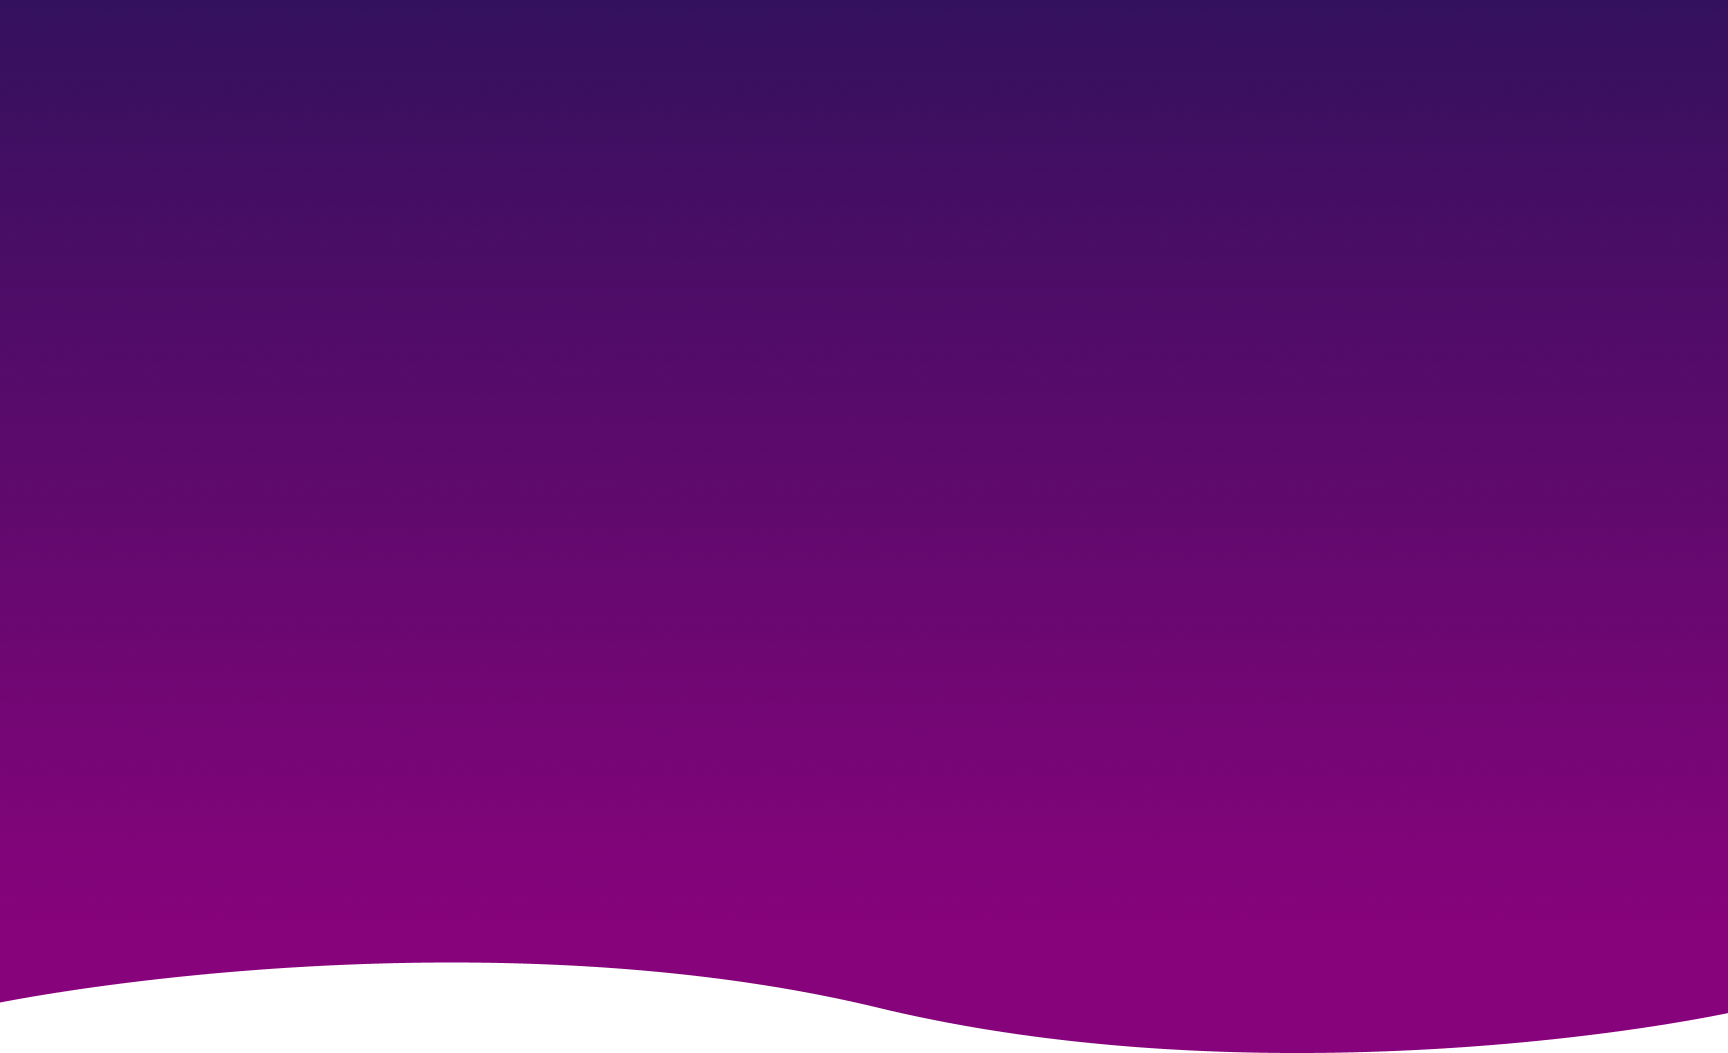
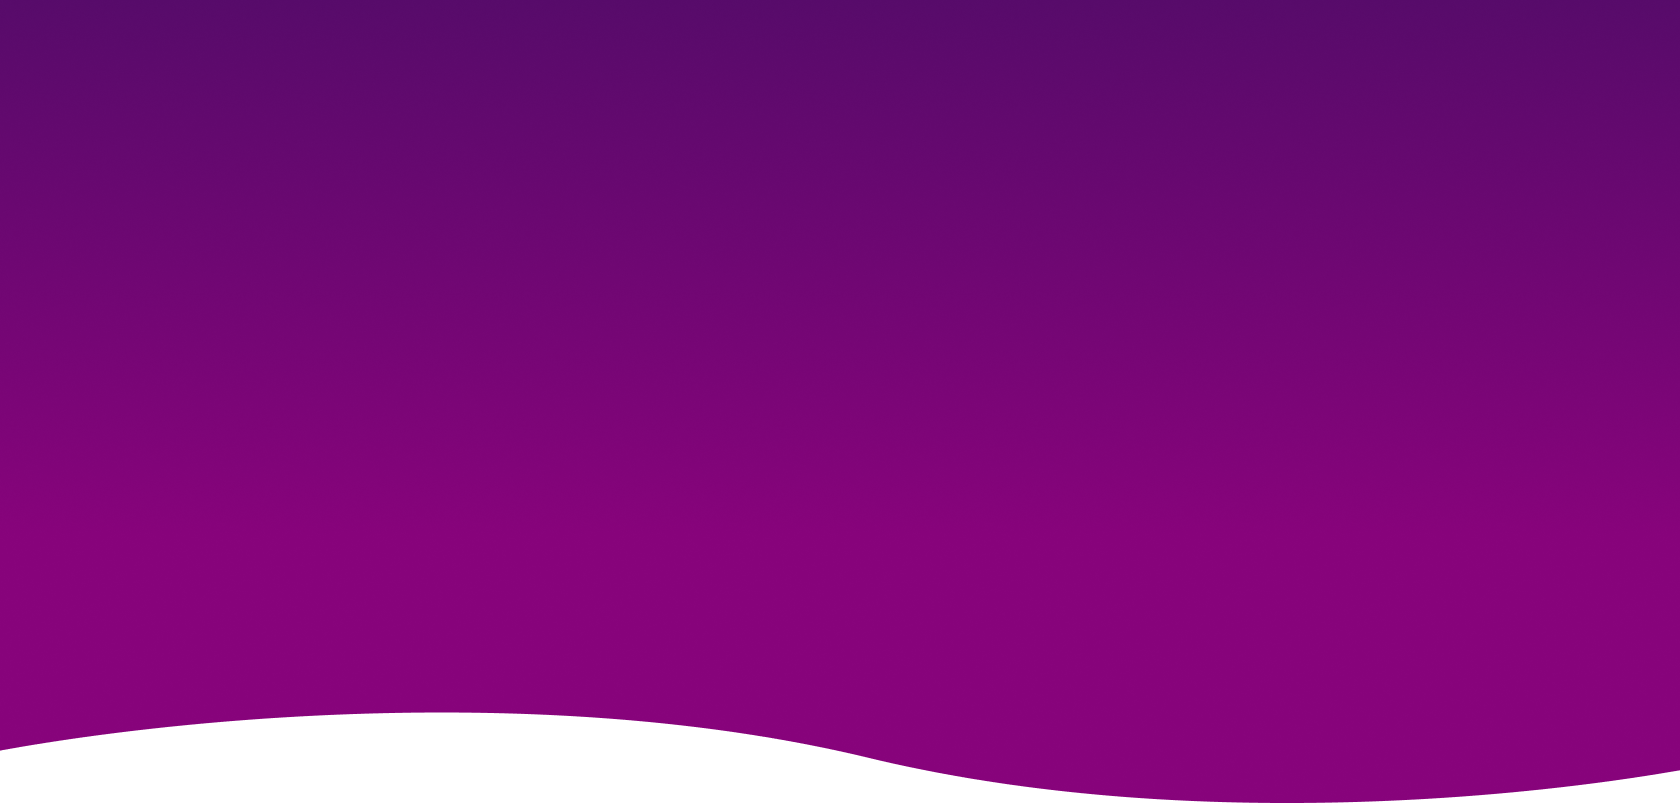
blog page edit

diff --git a/css/new_custom.css b/css/new_custom.css
@@ -1,10 +1,10 @@
 .blog_bnr .motivationg_bg_one > img{
-    height: 850px;
+    height: 725px;
 }
 .blog_bnr .motivation_bnr_wrap{
     margin-top: 0;
     position: absolute;
-    top: 120px;
+    top: 90px;
 }
 .blog_bnr .motivation_bnr_wrap p {
     padding-top: 30px;
@@ -117,17 +117,19 @@
     align-items: center;
     box-shadow: rgba(0, 0, 0, 0.16) 0px 36.9px 25.67px;
     background-color: #F5F5F5;
-    padding: 30px;
+    padding: 27px 30px;
     margin: 0 auto;
     border-radius: 16px;
+    max-width: 804px;
 }
 .social_post_list_wrap ul li:not(:last-child){
-    margin-right: 20px;
+    margin-right: 24px;
 }
 .social_post_list_wrap h5{
     color: #FF6900;
-    font-size: 32px;
-    margin-right: 60px;
+    font-size: 16px;
+    margin-right: 104px;
+    font-weight: 600;
 }
 .social_post_icon_wrap{
     position: absolute;
@@ -159,18 +161,18 @@
     max-width: 560px;
 }
 .blog_post_one figcaption{
-    font-size: 30px;
+    font-size: 13px;
     color: #FF6900;
     margin: 30px 0;
-    line-height: 40px;
+    line-height: 23px;
     font-style: italic;
     text-align: center;
 }
 .blog_post_two figcaption{
-    font-size: 30px;
+    font-size: 13px;
     color: #FF6900;
     margin: 30px 0;
-    line-height: 40px;
+    line-height: 23px;
     font-style: italic;
     text-align: center;
 }
@@ -184,15 +186,15 @@
     margin-top: 70px;
 }
 .post_btn_wrap_new a{
-    font-size: 30px;
+    font-size: 16px;
     font-weight: 700;
     color: #201457;
 }
 .post_btn_wrap_new a:first-child span{
-    margin-left: 30px
+    margin-left: 18px
 }
 .post_btn_wrap_new a:last-child span{
-    margin-right: 30px;
+    margin-right: 18px;
 }
 .subscribe_frm_wrap_inr {
     background-color: #201457;
@@ -223,7 +225,38 @@
 .social_post_list_wrap_mob{
     display: none;
 }
-
-
-
+.post_bg_wrap > img{
+height: 410px;
+}
+.blog_bnr .motivation_bnr_wrap .motivation_cnt_img_one{
+    margin-top: 0;
+}
+.blog_bnr .motivation_bnr_wrap .col-md-6:nth-child(1){
+    margin-top: 80px;
+}
+.glbl_btn_new_one{
+    min-width: 205px;
+    height: 48px;
+    background: #201457;
+    border-radius: 50px;
+    color: #fff;
+    font-size: 16px;
+    line-height: 47px;
+    font-weight: 700;
+    display: inline-flex;
+    justify-content: center;
+    align-items: center;
+    padding: 0 15px;
+    text-align: center;
+}
+.glbl_btn_new_one:hover{
+    background: #fff;
+    color: #FF6900;
+}
+.post_bg_inr_cnt .glbl_btn_new_one{
+    min-width: 250px;
+}
+.pagination_mob{
+    display: none;
+}
 /* post page end*/

diff --git a/blog.html b/blog.html
@@ -207,7 +207,7 @@
                                         beyond. The team will race atop the OSTRO VAM, O2 VAM, and HANZŌ framesets
                                         equipped with Factor’s Black Inc wheelsets.</p>
                                     <div class="motivation_bnr_btn">
-                                        <a href="https://labs.humanpoweredhealth.com/booking" class="glbl_btn_one">READ
+                                        <a href="https://labs.humanpoweredhealth.com/booking" class="glbl_btn_new_one">READ
                                             THE ARTICLE</a>
                                     </div>
                                 </div>
@@ -317,7 +317,9 @@
                 </div>
             </div>
             <div class="pagination_wrap">
-                <img src="./images/Pagination.png" alt="">
+                <img src="./images/Pagination.png" alt="" class="pagination_desk">
+                <img src="./images/pagination_mob.png" alt="" class="pagination_mob">
+
             </div>
         </div>
     </section>

diff --git a/css/new_responsive.css b/css/new_responsive.css
@@ -45,10 +45,10 @@
         margin-left: 0;
         max-width: none;
     }
-    .blog_post_one figcaption{
+    /* .blog_post_one figcaption{
         font-size: 25px;
         line-height: 30px;
-    }
+    } */
     .post_inr_cnt_sec p{
         text-align: center;
     }
@@ -97,7 +97,6 @@
         order: 1;
     }
     .post_btn_wrap_new a{
-        font-size: 18px;
         text-align: center;
     }
     .post_inr_cnt_sec {
@@ -120,5 +119,12 @@
     }
     .post_btn_wrap_new{
         margin-top: 0;
+    }
+    .pagination_mob{
+        display: block;
+        width: 100%;
+    }
+    .pagination_desk{
+        display: none;
     }
 }

diff --git a/post.html b/post.html
@@ -199,7 +199,7 @@
             <div class="post_bg_inr_cnt">
                 <div class="container">
                     <div class="post_bnr_btn">
-                        <a href="" class="glbl_btn_one">POSTED ON DEC 6, 2023</a>
+                        <a href="" class="glbl_btn_new_one">POSTED ON DEC 6, 2023</a>
                     </div>
                     <div class="post_bnr_hdng">
                         <h1>HPH partners with Factor Bikes</h1>
